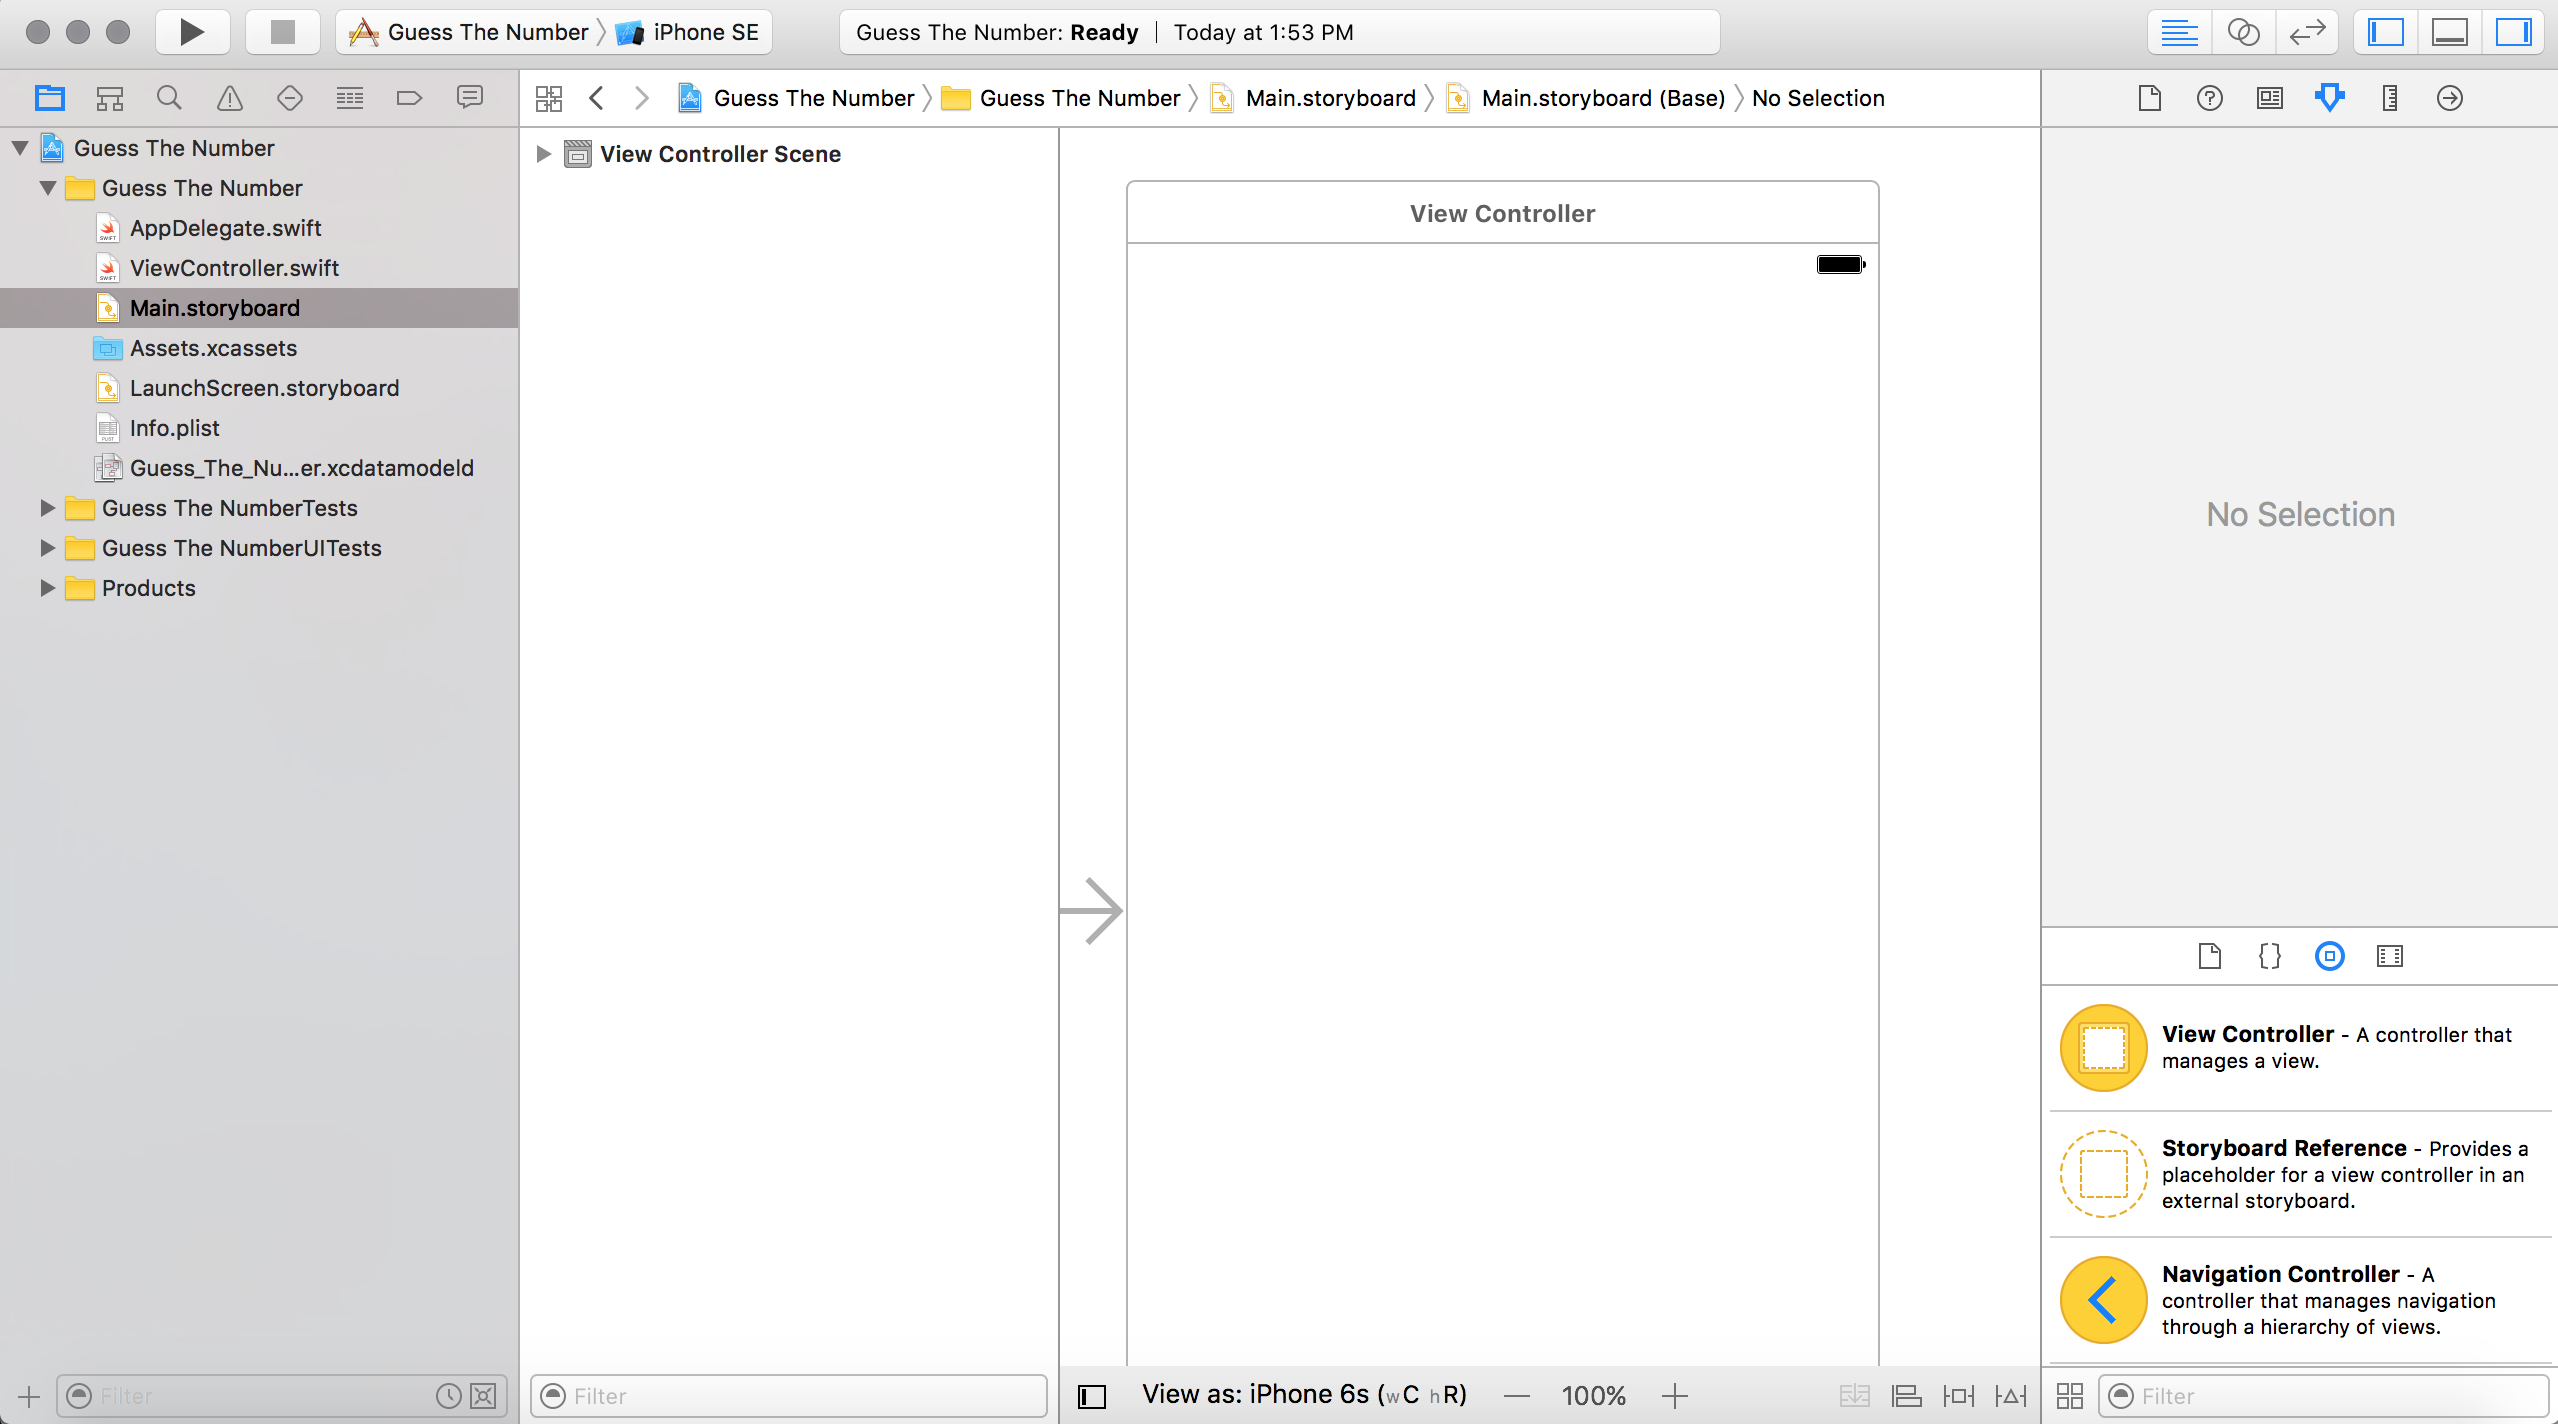
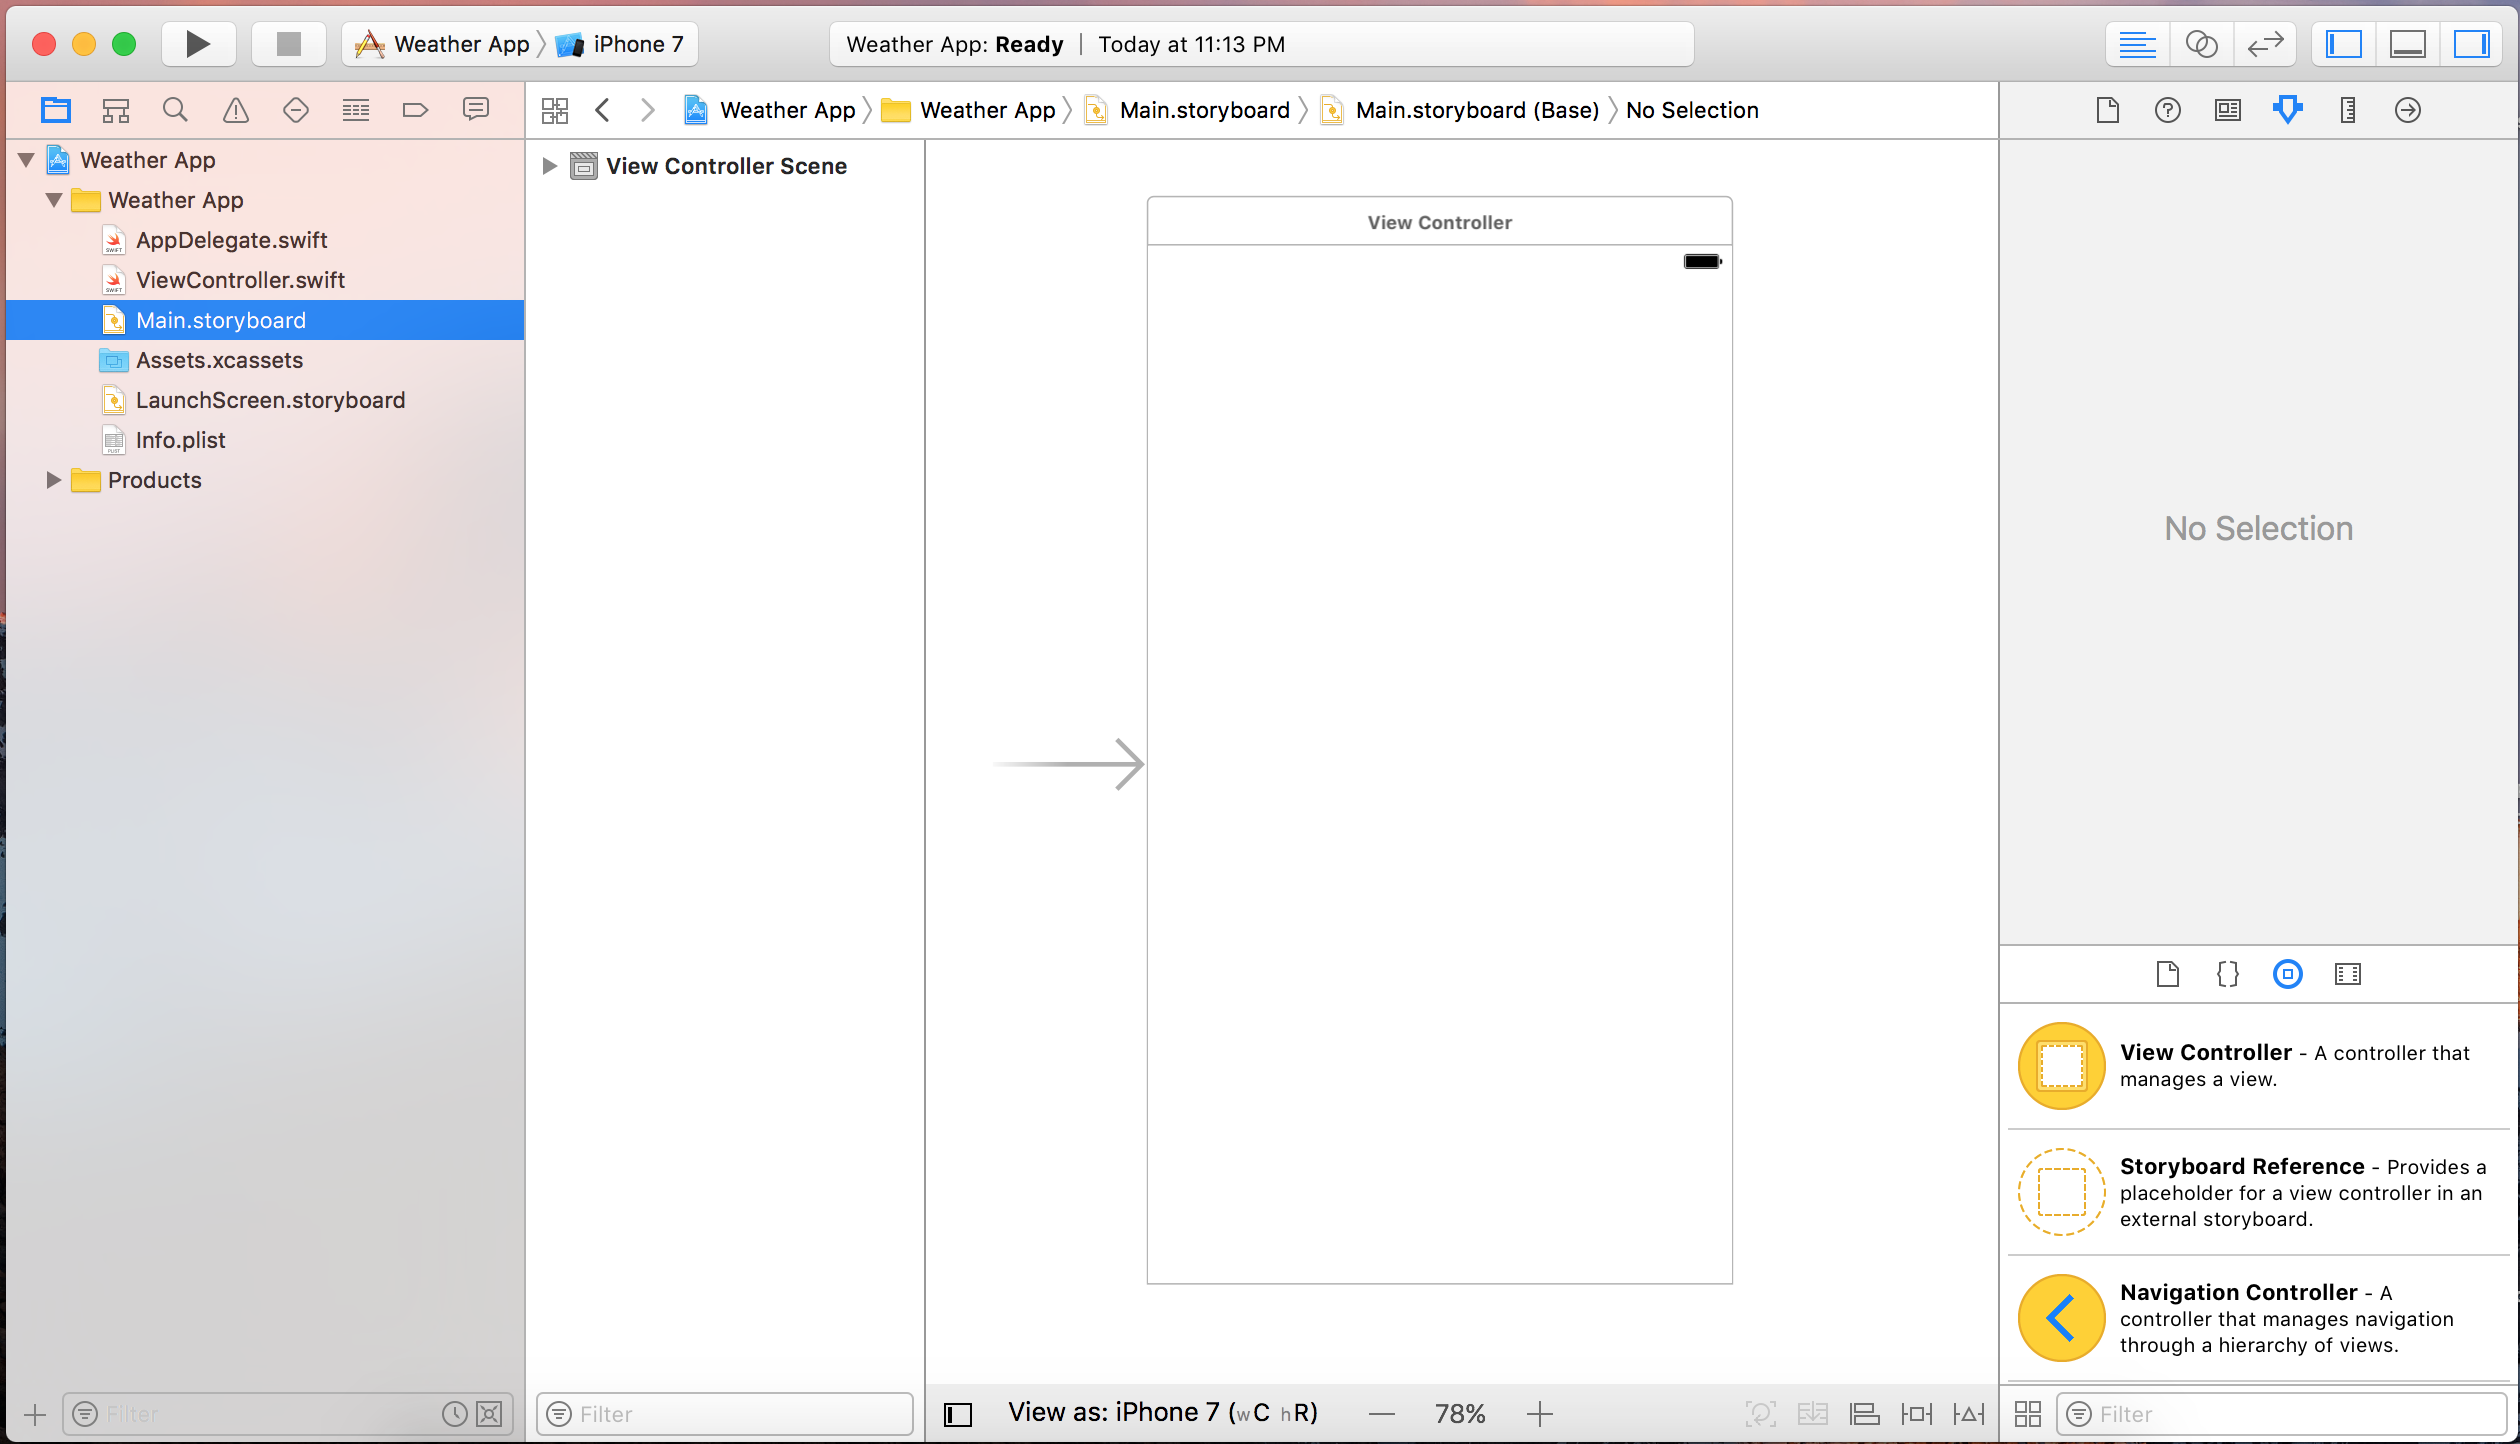
P2 almost done

diff --git a/P2/P2.md b/P2/P2.md
@@ -4,48 +4,34 @@
 
 <p align="center"> <img src="/images/storyboardPic.png" align="center"> </p>
 
-You should see something that looks like this. There are three important parts worth knowing:
+For this Weather app, there are 5 parts in the interface we're building:
+1. A label to display the location
+2. A label to display a description of the weather
+3. A label to display the temperature
+4. A label to display an icon
+5. A bar button item to refresh the weather forecast
 
-1. **Editor Canvas:** This is where you design your layouts. What you see here is what you will get when you run the app on your phone, to an extent.
-3. **The Inspector:** This pane is where you modify anything and everything. It shows options for whatever you have selected.
-4. **UI Palette:** Nestled at the bottom of the inspector, the UI Palette is where you find the components that you use to build your interfaces.
+### Adding UI Elements
 
-That big white square in the middle is your first View Controller. Any changes you make to this view will appear on your screen when you run the app.
+Embed the view controller in a Navigation Controller (select the view controller, Editor-> Embed in -> Navigation Controller), and add the 5 elements described above as well as the necessary constraints to your storyboard. You should have a result similar to this:
 
-Now, for this Guess the Number game, there are 3 parts in the interface we're building:
-1. A label to display the title of the game
-2. A text field to input your guess
-3. A button to submit your guess
+<p align="center"> <img src="/images/uiResult.png" align="center"> </p>
 
-Let's start building the screen!
+### WeatherViewController
 
-### You're a label, Harry
+In order to provide functionality to the app, there must be a way to connect the labels and bar button item to actual code. The ViewController displayed in front of you is automatically connected to a file called `ViewController.swift`. We want a file with a more meaningful name, so you can go ahead and delete `ViewController.swift` and then create a new Swift file named `WeatherViewController.swift`. Make sure this new file is a subclass of `UIViewController`. Your new class should have the following code:
 
-In order to display the title of the game, we are going to work with the Interface builder and the UI Palette. Go ahead to the UI Palette and scroll until you find `Label`:
+```swift
+import UIKit
 
-<p align="center"> <img src="/images/uiPalette.png" align="center"> </p>
+class WeatherViewController: UIViewController {
 
-You can drag components from the UI Palette into your View Controller. Go ahead and drag a `Label` over and drop it on somewhere on the view. The process should look something like this:
+}
+```
 
-<p align="center"> <img src="/images/dragLabel.png" align="center"> </p>
+After your `WeatherViewController.swift` file is done, make sure your view controller is connected to this new file. To do this, go back to the storyboard and select the view controller. On the inspector pane to the right, select the identity inspector menu, and make sure the view controller's class is `WeatherViewController.swift`.
 
-Voila! There is a label now on your screen! You can actually customize the label by clicking on it and going to the **Attributes tab** on the right of the screen:
-
-<p align="center"> <img src="/images/editLabel.png" align="center"> </p>
-
-Here at the Attributes tab, you can edit the text of your label, the color, the font, the size, and many more! For this tutorial, why don't you edit the text of the label so that it reads `Guess the Number`.
-
-Now, in order to actually input a guess, you will need a `UI Textfield`, and you will also need a `UI Button` in order to submit your guess. Go ahead to the UI Palette again and drag a button and text field to your screen. Also edit the textfield and the button in any way you want. For this tutorial, edit all the features in the view so that it looks like this:
-
-<p align="center"> <img src="/images/finalLayout.png" align="center"> </p>
-
-Awesome! Now we have our view! If you run the application on the simulator, then you should be able to see the image above as the final layout on your phone! While this is great progress, we still need to be able to actually provide functionality to the app.
-
-### Accio Linking!
-
-In order to provide functionality to the app, there must be a way to connect the label, text field, and button to actual code. Luckily, there is a way! The ViewController displayed in front of you is automatically connected to a file called `ViewController.swift`. Before you open the file up, first click on the view you have in front of you. Now, at the top right corner of the Xcode interface, there is a toolbar. Go ahead and click on what looks like two circles intertwining. This allows you to see both the view from the storyboard and the swift file connected to that view simultaneously:
-
-<p align="center"> <img src="/images/twoScreen.png" align="center"> </p>
+<p align="center"> <img src="/images/weatherVC.png" align="center"> </p>
 
 Now, let's start with linking the label in our ViewController to the actual Swift code. In order to do this, you click on the label, control-click on it, and drag the blue line that appears to the swift file:
 
@@ -60,6 +46,8 @@ With this screen, you can specify what type of connection you'll make between th
 <p align="center"> <img src="/images/guessLabel.png" align="center"> </p>
 
 Go ahead and do the same linking process to the text field in the view, and name that connection `guessTextField`.
+
+### Label and Button Linking
 
 ### Next Time
 

diff --git a/cocoapods.md b/cocoapods.md
@@ -1,8 +1,8 @@
-## Part ?: Cocoapods
+## Part ?: CocoaPods
 
-**Cocoapods** is a dependency manager for Swift and Objective-C Cocoa projects. It has over 24 thousand libraries and is used in over 1.2 million apps. You can learn more in the [Cocoapods website](https://cocoapods.org/).
+**CocoaPods** is a dependency manager for Swift and Objective-C Cocoa projects. It has over 24 thousand libraries and is used in over 1.2 million apps. You can learn more on the [CocoaPods website](https://cocoapods.org/).
 
-If you have not already done so, you should go ahead and install Cocoapods. To do this, open a Terminal and run this command `sudo gem install cocoapods`.
+If you have not already done so, you should go ahead and install Cocoapods. To do this, open a Terminal and run this command `sudo gem install cocoapods`. To complete the setup enter this command: `pod setup --verbose`. You're now setup to use CocoaPods!
 
 
 
